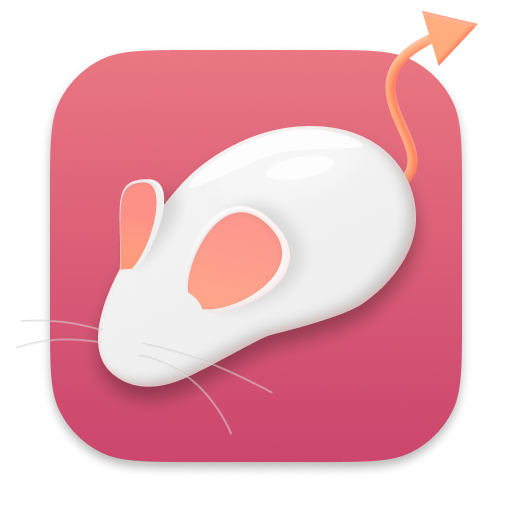
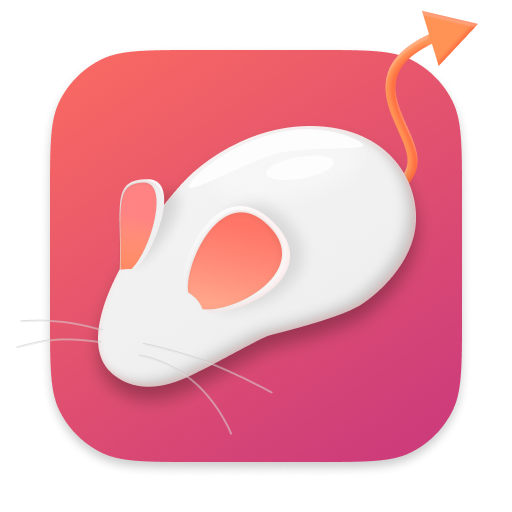
Publish deploy 2020-11-16 23:13

Changed region(s): [[0.0938, 0.0312, 0.9375, 0.4375], [0.375, 0.4062, 0.5625, 0.5312]]

diff --git a/zh-cn/index.html b/zh-cn/index.html
@@ -6,4 +6,4 @@ new Date().getTime(),event:'gtm.js'});var f=d.getElementsByTagName(s)[0],
 j=d.createElement(s),dl=l!='dataLayer'?'&l='+l:'';j.async=true;j.src=
 'https://www.googletagmanager.com/gtm.js?id='+i+dl;f.parentNode.insertBefore(j,f);
 })(window,document,'script','dataLayer','GTM-5K84TFL');</script></head><body><noscript><iframe src="https://www.googletagmanager.com/ns.html?id=GTM-5K84TFL"
-height="0" width="0" style="display:none;visibility:hidden"></iframe></noscript><header><div><div class="wrapper"><img class="app-icon" src="../image/icon.png"/><p class="site-name">Abnormal Mouse</p><p class="site-description-set"><span class="site-description-main">让你在 macOS 中更轻松地使用一般鼠标。</span><span class="site-description-sub">如果你的鼠标有很多按键那就更好了。</span><span class="site-description-fade">为什么 magic mouse 那么贵。</span></p><div class="page-link-wrapper"><p class="page-link"><a href="https://github.com/intitni/AbnormalMouseApp">Github</a></p><p class="page-link"><a href="https://abnormalmouse.intii.com">English</a></p></div></div><div class="download-link-container"><p class="download-link"><span class="download-link-arrow"></span><a id="download-trial" href="https://github.com/intitni/AbnormalMouseApp/releases/download/version%2F2020.7/AbnormalMouse_2020_7.zip">下载试用。<span class="download-link-description"></span></a></p><p class="download-link"><span class="download-link-arrow"></span><a id="purchase" href="https://intii.onfastspring.com/zh-cn/abnormal-mouse">现在购买只需¥22。<span class="download-link-description">可以激活 3 台设备</span></a></p></div></div></header><div class="wrapper content-wrapper"><h2><img class="title-icon" src="/image/title-icon-scroll.svg"/>像触控板那样的“拖拽”滚动。</h2><p>Abnormal Mouse 能够将鼠标的移动转变为滚动事件。</p><p>如果你将触发键设置为多余的鼠标按键，滚动的体验会有点像触控板和妙控鼠标，感觉像是在拖拽内容一样。</p><h2><img class="title-icon" src="/image/title-icon-swipe.svg"/>轻扫手势。</h2><p>在滚动的过程中，鼠标的移动也同时被转变为了轻扫手势。如此一来你就可以通过一个一般鼠标，实现右划返回、右划标记为已读这样的操作。</p><h2><img class="title-icon" src="/image/title-icon-zoom.svg"/>旋转、缩放、智能缩放。</h2><p>除此之外，Abnormal Mouse 还能够将鼠标移动转化为旋转和缩放手势。如果你经常使用一些需要经常旋转或缩放的应用，不必再羡慕触控板玩家了。 顺带地也支持触发智能缩放。</p><h2><img class="title-icon" src="/image/title-icon-dock-swipe.svg"/>空间与调度中心。</h2><p>一般鼠标没有办法切换空间？<del>用键盘啊！</del>现在只需给四指轻扫手势设置一个触发键，你就能够用通过拖拽一般鼠标切换空间了！</p><h2><img class="title-icon" src="/image/title-icon-more.svg"/>和别的 app 联动！</h2><p>所有用到这些手势的 app 现在都能够和你的一般鼠标好好相处了！</p><p>比如说，在 Reeder 中滚动切换文章、下拉刷新、上拉标记为已读，这一切手势都能通过一般鼠标做到；</p><p>像 Swish 这种大量依赖于触控板手势的窗口管理工具，一般鼠标也可以愉快地使用了。</p><h2><img class="title-icon" src="/image/title-icon-github.svg"/>90% 开源。</h2><p>除去验证和管理软件许可证的部分，这个 app 已经在 github 上面开源了。</p></div><footer><div class="wrapper"><p>Copyright © 2020</p><p><a href="mailto:abnormalmouse@intii.com">联系我</a></p></div><script src="https://www.googletagmanager.com/gtag/js?id=UA-17603222-4"></script></footer></body></html>
+height="0" width="0" style="display:none;visibility:hidden"></iframe></noscript><header><div><div class="wrapper"><img class="app-icon" src="../image/icon.png"/><p class="site-name">Abnormal Mouse</p><p class="site-description-set"><span class="site-description-main">让你在 macOS 中更轻松地使用一般鼠标。</span><span class="site-description-sub">如果你的鼠标有很多按键那就更好了。</span><span class="site-description-fade">为什么 magic mouse 那么贵。</span></p><div class="page-link-wrapper"><p class="page-link"><a href="https://github.com/intitni/AbnormalMouseApp">Github</a></p><p class="page-link"><a href="https://abnormalmouse.intii.com">English</a></p></div></div><div class="download-link-container"><p class="download-link"><span class="download-link-arrow"></span><a id="download-trial" href="https://github.com/intitni/AbnormalMouseApp/releases/download/version%2F2020.8/AbnormalMouse.zip">下载试用。<span class="download-link-description"></span></a></p><p class="download-link"><span class="download-link-arrow"></span><a id="purchase" href="https://intii.onfastspring.com/zh-cn/abnormal-mouse">现在购买只需¥22。<span class="download-link-description">可以激活 3 台设备</span></a></p></div></div></header><div class="wrapper content-wrapper"><h2><img class="title-icon" src="/image/title-icon-scroll.svg"/>像触控板那样的“拖拽”滚动。</h2><p>Abnormal Mouse 能够将鼠标的移动转变为滚动事件。</p><p>如果你将触发键设置为多余的鼠标按键，滚动的体验会有点像触控板和妙控鼠标，感觉像是在拖拽内容一样。</p><h2><img class="title-icon" src="/image/title-icon-swipe.svg"/>轻扫手势。</h2><p>在滚动的过程中，鼠标的移动也同时被转变为了轻扫手势。如此一来你就可以通过一个一般鼠标，实现右划返回、右划标记为已读这样的操作。</p><h2><img class="title-icon" src="/image/title-icon-zoom.svg"/>旋转、缩放、智能缩放。</h2><p>除此之外，Abnormal Mouse 还能够将鼠标移动转化为旋转和缩放手势。如果你经常使用一些需要经常旋转或缩放的应用，不必再羡慕触控板玩家了。 顺带地也支持触发智能缩放。</p><h2><img class="title-icon" src="/image/title-icon-dock-swipe.svg"/>空间与调度中心。</h2><p>一般鼠标没有办法切换空间？<del>用键盘啊！</del>现在只需给四指轻扫手势设置一个触发键，你就能够用通过拖拽一般鼠标切换空间了！</p><h2><img class="title-icon" src="/image/title-icon-more.svg"/>和别的 app 联动！</h2><p>所有用到这些手势的 app 现在都能够和你的一般鼠标好好相处了！</p><p>比如说，在 Reeder 中滚动切换文章、下拉刷新、上拉标记为已读，这一切手势都能通过一般鼠标做到；</p><p>像 Swish 这种大量依赖于触控板手势的窗口管理工具，一般鼠标也可以愉快地使用了。</p><h2><img class="title-icon" src="/image/title-icon-github.svg"/>90% 开源。</h2><p>除去验证和管理软件许可证的部分，这个 app 已经在 github 上面开源了。</p></div><footer><div class="wrapper"><p>Copyright © 2020</p><p><a href="mailto:abnormalmouse@intii.com">联系我</a></p></div><script src="https://www.googletagmanager.com/gtag/js?id=UA-17603222-4"></script></footer></body></html>

diff --git a/index.html b/index.html
@@ -6,4 +6,4 @@ new Date().getTime(),event:'gtm.js'});var f=d.getElementsByTagName(s)[0],
 j=d.createElement(s),dl=l!='dataLayer'?'&l='+l:'';j.async=true;j.src=
 'https://www.googletagmanager.com/gtm.js?id='+i+dl;f.parentNode.insertBefore(j,f);
 })(window,document,'script','dataLayer','GTM-5K84TFL');</script></head><body><noscript><iframe src="https://www.googletagmanager.com/ns.html?id=GTM-5K84TFL"
-height="0" width="0" style="display:none;visibility:hidden"></iframe></noscript><header><div><div class="wrapper"><img class="app-icon" src="image/icon.png"/><p class="site-name">Abnormal Mouse</p><p class="site-description-set"><span class="site-description-main">Fix normal mice for macOS. </span><span class="site-description-sub">Perfect for mice with a lot of buttons. </span><span class="site-description-fade">Why is magic mouse so expensive.</span></p><div class="page-link-wrapper"><p class="page-link"><a href="https://github.com/intitni/AbnormalMouseApp">Github</a></p><p class="page-link"><a href="https://abnormalmouse.intii.com/zh-cn">中文</a></p></div></div><div class="download-link-container"><p class="download-link"><span class="download-link-arrow"></span><a id="download-trial" href="https://github.com/intitni/AbnormalMouseApp/releases/download/version%2F2020.7/AbnormalMouse_2020_7.zip">Download free trial.<span class="download-link-description"></span></a></p><p class="download-link"><span class="download-link-arrow"></span><a id="purchase" href="https://intii.onfastspring.com/abnormal-mouse">Buy now for US$4. <span class="download-link-description">3 activations</span></a></p></div></div></header><div class="wrapper content-wrapper"><h2><img class="title-icon" src="/image/title-icon-scroll.svg"/>Trackpad like “drag” to scroll with a normal mouse.</h2><p>Abnormal Mouse converts mouse movements into scroll events when this feature is active.</p><p>If you set a mouse button as an activator, the experience feels somewhat like that you would have with a trackpad or a magic mouse.</p><h2><img class="title-icon" src="/image/title-icon-swipe.svg"/>Swipe.</h2><p>During scrolling, mouse movements will also translate into swipe gestures, making functions like swipe to go back, swipe to mark as read possible with a normal mouse.</p><h2><img class="title-icon" src="/image/title-icon-zoom.svg"/>Rotate, zoom and smart zoom.</h2><p>More than that, Abnormal Mouse can convert mouse movements to rotate and zoom events. This feature may boost your productivity when you are using apps that heavily relies on these gestures.</p><p>Double-tap to smart zoom also comes as a bonus.</p><h2><img class="title-icon" src="/image/title-icon-dock-swipe.svg"/>Spaces, mission control.</h2><p>Have problem switching between spaces with a normal mouse? <del>Use your keyboard!</del> Simply set an activator for 4-finger gesture and "drag" between spaces with your mouse!</p><h2><img class="title-icon" src="/image/title-icon-more.svg"/>Coop with other apps!</h2><p>Any other app that uses these gestures will now be happy with your beloved normal mouse!</p><p>For example, you can navigate through your RSS feed more fluently with Reeder, being able to swipe to the next article or over-scroll to mark all as read.</p><p>You can also manage your windows and tabs at ease with swipe gestures with the help of Swish.</p><h2><img class="title-icon" src="/image/title-icon-github.svg"/>90% open-source.</h2><p>The app, excluding the part to manage and verify license, is open-source on github.</p></div><footer><div class="wrapper"><p>Copyright © 2020</p><p><a href="mailto:abnormalmouse@intii.com">Contact</a></p></div><script src="https://www.googletagmanager.com/gtag/js?id=UA-17603222-4"></script></footer></body></html>
+height="0" width="0" style="display:none;visibility:hidden"></iframe></noscript><header><div><div class="wrapper"><img class="app-icon" src="image/icon.png"/><p class="site-name">Abnormal Mouse</p><p class="site-description-set"><span class="site-description-main">Fix normal mice for macOS. </span><span class="site-description-sub">Perfect for mice with a lot of buttons. </span><span class="site-description-fade">Why is magic mouse so expensive.</span></p><div class="page-link-wrapper"><p class="page-link"><a href="https://github.com/intitni/AbnormalMouseApp">Github</a></p><p class="page-link"><a href="https://abnormalmouse.intii.com/zh-cn">中文</a></p></div></div><div class="download-link-container"><p class="download-link"><span class="download-link-arrow"></span><a id="download-trial" href="https://github.com/intitni/AbnormalMouseApp/releases/download/version%2F2020.8/AbnormalMouse.zip">Download free trial.<span class="download-link-description"></span></a></p><p class="download-link"><span class="download-link-arrow"></span><a id="purchase" href="https://intii.onfastspring.com/abnormal-mouse">Buy now for US$4. <span class="download-link-description">3 activations</span></a></p></div></div></header><div class="wrapper content-wrapper"><h2><img class="title-icon" src="/image/title-icon-scroll.svg"/>Trackpad like “drag” to scroll with a normal mouse.</h2><p>Abnormal Mouse converts mouse movements into scroll events when this feature is active.</p><p>If you set a mouse button as an activator, the experience feels somewhat like that you would have with a trackpad or a magic mouse.</p><h2><img class="title-icon" src="/image/title-icon-swipe.svg"/>Swipe.</h2><p>During scrolling, mouse movements will also translate into swipe gestures, making functions like swipe to go back, swipe to mark as read possible with a normal mouse.</p><h2><img class="title-icon" src="/image/title-icon-zoom.svg"/>Rotate, zoom and smart zoom.</h2><p>More than that, Abnormal Mouse can convert mouse movements to rotate and zoom events. This feature may boost your productivity when you are using apps that heavily relies on these gestures.</p><p>Double-tap to smart zoom also comes as a bonus.</p><h2><img class="title-icon" src="/image/title-icon-dock-swipe.svg"/>Spaces, mission control.</h2><p>Have problem switching between spaces with a normal mouse? <del>Use your keyboard!</del> Simply set an activator for 4-finger gesture and "drag" between spaces with your mouse!</p><h2><img class="title-icon" src="/image/title-icon-more.svg"/>Coop with other apps!</h2><p>Any other app that uses these gestures will now be happy with your beloved normal mouse!</p><p>For example, you can navigate through your RSS feed more fluently with Reeder, being able to swipe to the next article or over-scroll to mark all as read.</p><p>You can also manage your windows and tabs at ease with swipe gestures with the help of Swish.</p><h2><img class="title-icon" src="/image/title-icon-github.svg"/>90% open-source.</h2><p>The app, excluding the part to manage and verify license, is open-source on github.</p></div><footer><div class="wrapper"><p>Copyright © 2020</p><p><a href="mailto:abnormalmouse@intii.com">Contact</a></p></div><script src="https://www.googletagmanager.com/gtag/js?id=UA-17603222-4"></script></footer></body></html>

diff --git a/changelogs/changelog.html b/changelogs/changelog.html
@@ -523,7 +523,12 @@ header, .context-menu, .megamenu-content, footer{
 </style>
 </head>
 <body class='typora-export' >
-    <div id='write' class = ''><h1><a name="20207" class="md-header-anchor"></a><span>2020.7</span></h1>
+    <div id='20208' class = ''><h1><a name="20208" class="md-header-anchor"></a><span>2020.8</span></h1>
+        <p><span>- Adjust app icon to have a stronger Big Sur taste.</span></p>
+        <p><span>- Add more keyboard code name.</span></p>
+        <p><span>- Build also for Apple Silicon (untested).</span></p>
+    </div>
+    <div id='20207' class = ''><h1><a name="20207" class="md-header-anchor"></a><span>2020.7</span></h1>
         <p><span>- Update UI for Big Sur.</span></p>
         <p><span>- Use a swift package AppDependencies to handle all swift dependencies.</span></p>
         <p><span>- Compute rotation value with mouse translation.</span></p>
